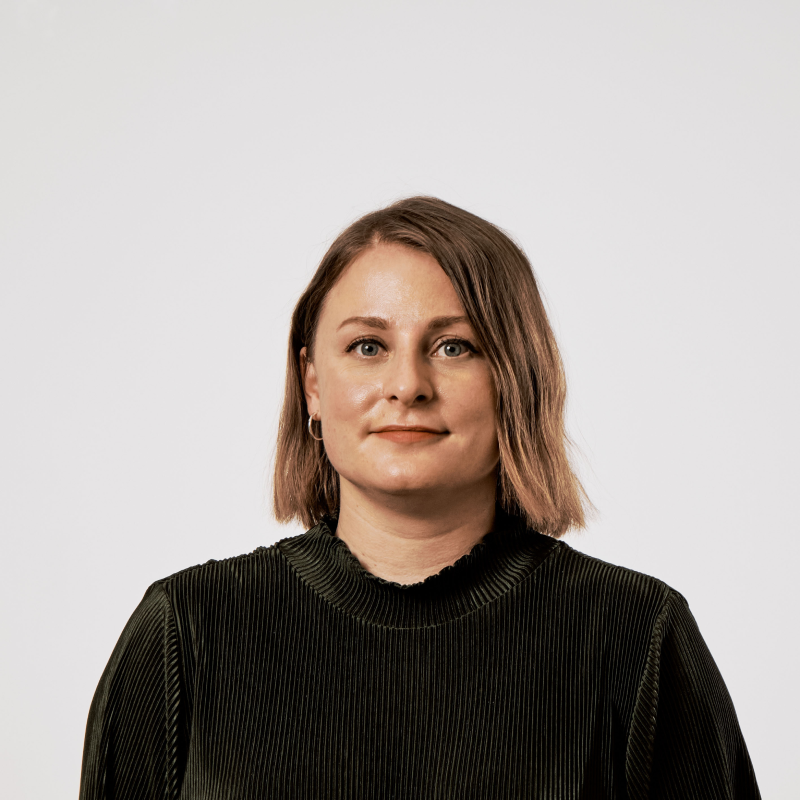
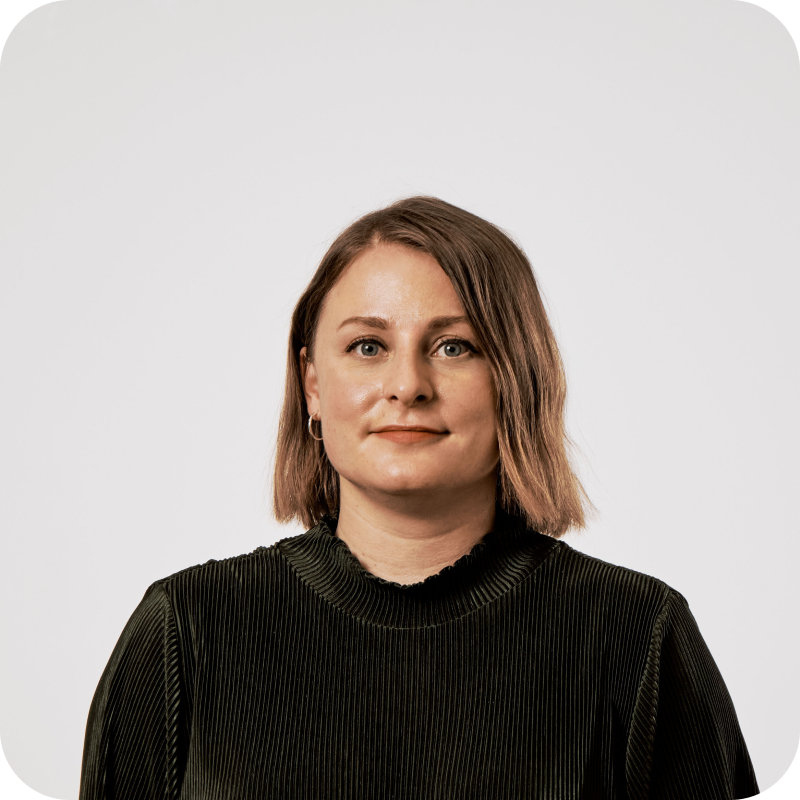
home page updated

diff --git a/app/assets/stylesheets/application.scss b/app/assets/stylesheets/application.scss
@@ -43,7 +43,7 @@ a {
 
 .up-arrow {
   width: 1rem;
-  padding-bottom: 0.1rem;
+  padding-bottom: 0.1em;
 }
 
 .desc-link {
@@ -66,18 +66,30 @@ a {
   color: $lightest-gray;
 }
 
+.bg-dark-primary {
+  background-color: $mid-navy;
+}
+
+.bg-darkest-primary {
+  background-color: $dark-navy;
+}
+
 // Case study
 .dark-text {
-  color: $light-gray;
+  color: $gray;
 }
 
 .bg-gray {
   background-color: $lightest-gray;
 }
 
+.bg-video {
+  background-color: #eef1f4;
+}
+
 .quote {
   color: $dark-gray;
-  padding-top: 0.5rem;
+  padding-top: 0.5em;
 }
 
 .fixed-height {
@@ -93,4 +105,9 @@ a {
 .centered {
   justify-content: center;
   text-align: center; 
+}
+
+// Footer
+.bg-darkestgray {
+  background-color: $darkest-gray;
 }

diff --git a/app/assets/stylesheets/components/_card.scss b/app/assets/stylesheets/components/_card.scss
@@ -1,0 +1,33 @@
+.card-background-cultivate {
+  background-color: $dark-green;
+  height: 278px;
+  width: 384px;
+  background-position: center;
+  object-fit: cover;
+  background-size: 84%;
+  overflow: hidden;
+  background-repeat: no-repeat;
+}
+
+.card-background-patched {
+  background-color: $dark-pink;
+  height: 278px;
+  width: 384px;
+}
+
+.card-background-inky {
+  background-color: $dark-blue;
+  height: 278px;
+  width: 384px;
+  background-position: center;
+  object-fit: cover;
+  background-size: 84%;
+  overflow: hidden;
+  background-repeat: no-repeat;
+}
+
+.card-background-smb {
+  background-color: $dark-charcoal;
+  height: 278px;
+  width: 384px;
+}

diff --git a/app/assets/stylesheets/pages/_home.scss b/app/assets/stylesheets/pages/_home.scss
@@ -1,0 +1,24 @@
+.lowercase {
+    text-transform: capitalize;
+    color: $darkest-gray;
+}
+
+.projects {
+    font-family: $monospace-font;
+    color: gray;
+    text-transform: uppercase;
+}
+
+.featured {
+    border-radius: 35px;
+    height: 300px;
+    object-fit: cover;
+    background: center;
+}
+
+.featured-cultivate {
+    border-radius: 35px;
+    height: 600px;
+    object-fit: cover;
+    background: center;
+}

diff --git a/app/assets/stylesheets/components/_alert.scss b/app/assets/stylesheets/components/_alert.scss
@@ -1,6 +1,6 @@
 .alert {
   position: fixed;
-  bottom: 16px;
-  right: 16px;
+  bottom: 1em;
+  right: 1em;
   z-index: 1000;
 }

diff --git a/app/assets/stylesheets/components/_index.scss b/app/assets/stylesheets/components/_index.scss
@@ -4,3 +4,5 @@
 @import "navbar";
 @import "logo-animation";
 @import "back-arrow-animation";
+@import "card";
+@import "scroll";
